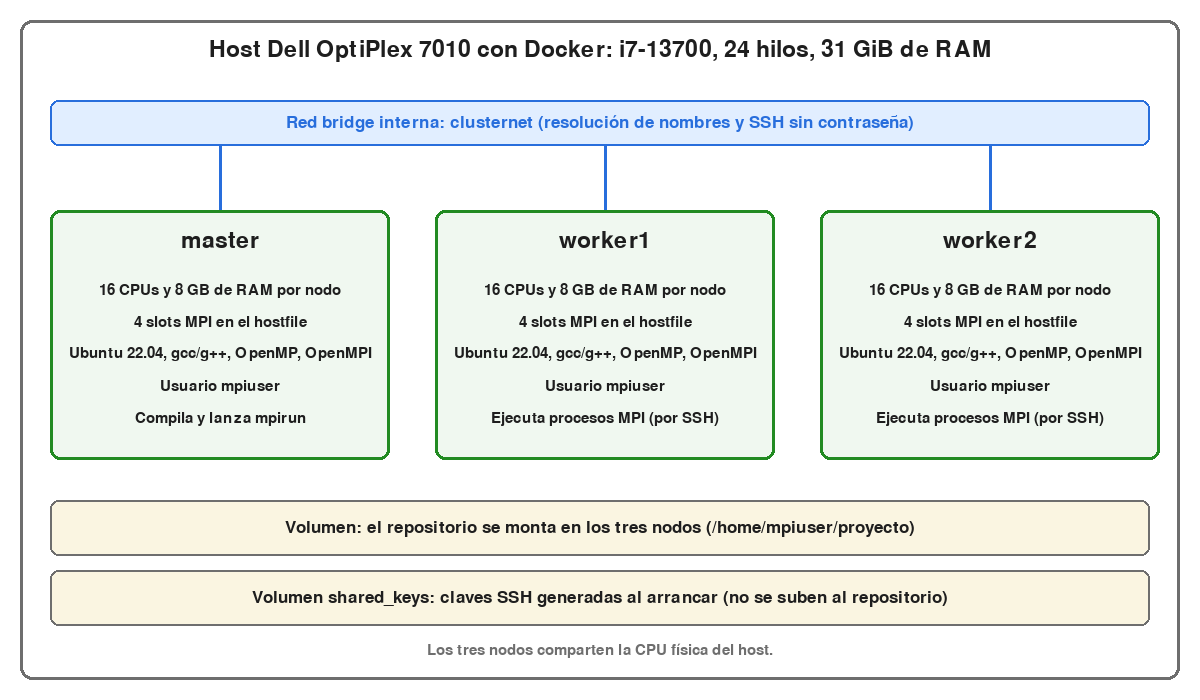
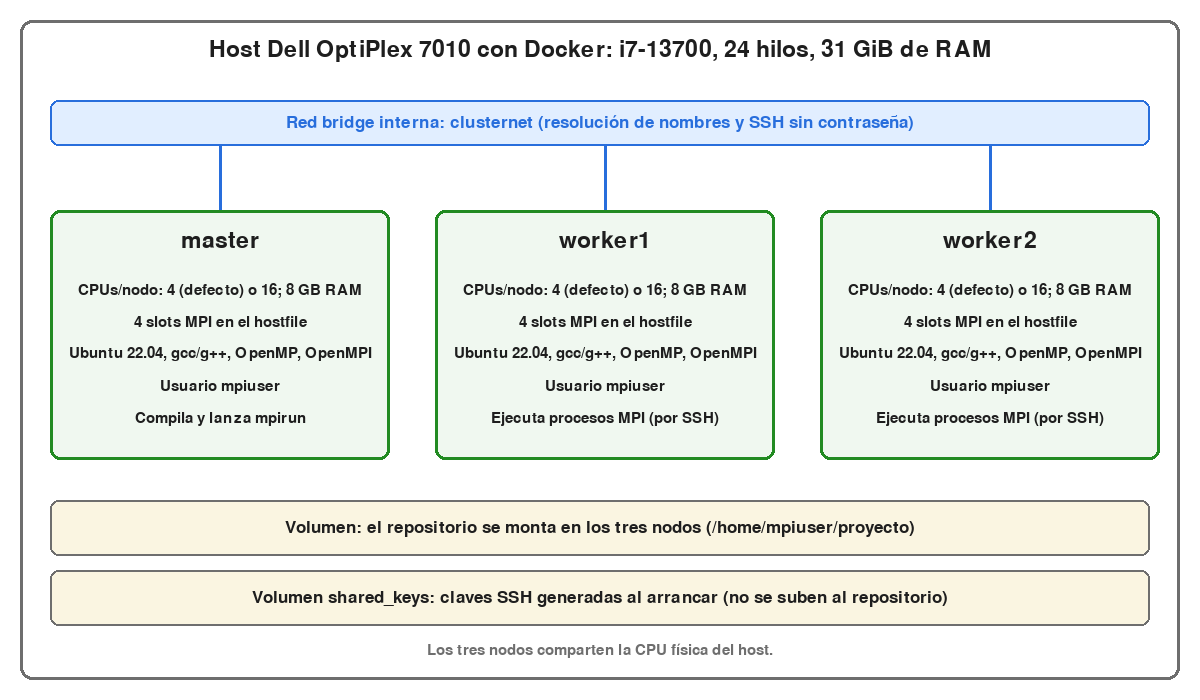
fix(informe): indicar 4 o 16 CPUs por nodo en el diagrama del clúster

Changed region(s): [[0.7092, 0.39, 0.9558, 0.42], [0.37, 0.39, 0.6167, 0.42], [0.0617, 0.39, 0.3083, 0.42]]

diff --git a/scripts/diagrama_cluster.py b/scripts/diagrama_cluster.py
@@ -38,7 +38,7 @@ for k, (nom, rol) in enumerate(nodos):
     pygame.draw.rect(s, (240, 248, 240), r, border_radius=10)
     pygame.draw.rect(s, VERDE, r, 3, border_radius=10)
     texto(nom, f_t, NEGRO, r.centerx, r.y + 30)
-    for i, l in enumerate(["16 CPUs y 8 GB de RAM por nodo",
+    for i, l in enumerate(["CPUs/nodo: 4 (defecto) o 16; 8 GB RAM",
                            "4 slots MPI en el hostfile",
                            "Ubuntu 22.04, gcc/g++, OpenMP, OpenMPI",
                            "Usuario mpiuser", rol]):
